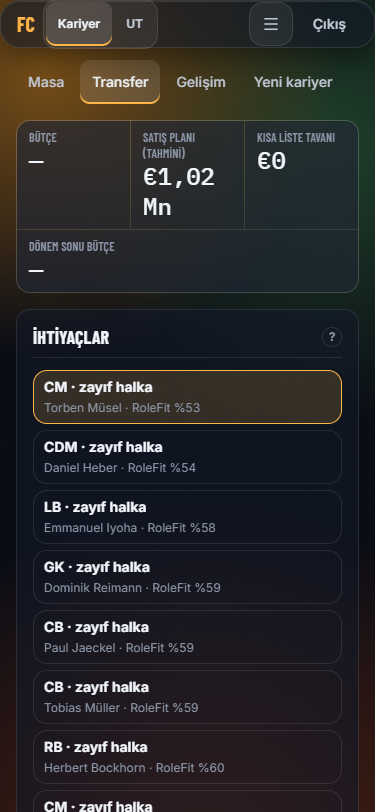
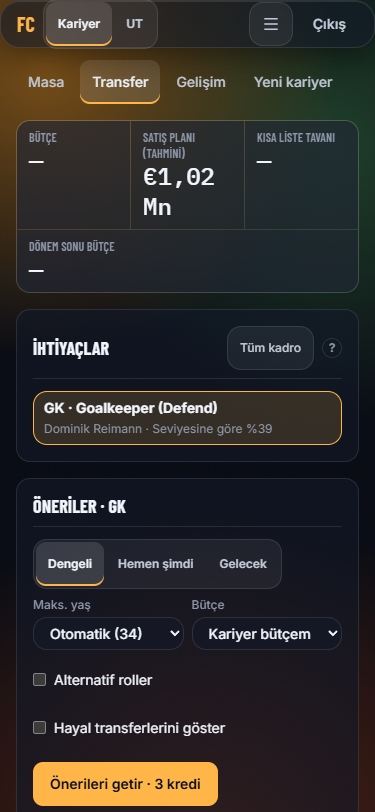
E3-10b: kariyer fit çağrıları v3, otomatik dizilim, perf ve filtre raporları, ekranlar
BEHAVIOR CHANGE: kariyer ekranlarındaki /fit/role çağrıları engineVersion v3 gönderir (saha rozeti artık İhtiyaçlar ile aynı sayı).

diff --git a/src/pages/CareerTransferPage.tsx b/src/pages/CareerTransferPage.tsx
@@ -1,6 +1,6 @@
 import { useMutation, useQuery, useQueryClient } from '@tanstack/react-query'
 import { Star } from 'lucide-react'
-import { useMemo, useState } from 'react'
+import { useEffect, useMemo, useRef, useState } from 'react'
 import { Link, useSearchParams } from 'react-router-dom'
 import { endpoints } from '../api/endpoints'
 import type { CareerRecommendationItem } from '../api/types'
@@ -41,6 +41,15 @@ export function CareerTransferPage() {
   const ws = useSquadWorkspace('career', binding)
   const { rows: fitRows, pending: fitsPending } = useSlotFits(ws, playerById)
   const [allSquad, setAllSquad] = useState(false)
+  // Dizilim henüz kurulmamışsa (Kadro kurucu açılmadıysa) sahadaki ile aynı otomatik dizilimle doldurulur.
+  const autoFilled = useRef('')
+  useEffect(() => {
+    const key = `${id}|${ws.formation?.id}`
+    if (id !== undefined && ws.formation && !ws.stale && (squad.data?.length ?? 0) >= 11 && Object.keys(ws.state.assigned).length === 0 && autoFilled.current !== key) {
+      autoFilled.current = key
+      endpoints.lineup(id, ws.tactic).then((result) => ws.patch({ assigned: Object.fromEntries(result.slots.flatMap((s) => (s.playerId !== undefined ? [[s.slotId, s.playerId]] : []))) })).catch(() => undefined)
+    }
+  }, [id, ws, squad.data])
   const shortlist = useQuery({ queryKey: ['shortlist', id], queryFn: () => endpoints.shortlist(id!), enabled: id !== undefined, retry: false })
   const tagList = useQuery({ queryKey: ['tags', id], queryFn: () => endpoints.playerTags(id!), enabled: id !== undefined, retry: false })
   const [selected, setSelected] = useState<string>()

diff --git a/src/features/squad/useSlotFits.ts b/src/features/squad/useSlotFits.ts
@@ -27,8 +27,8 @@ export function useSlotFits(ws: SquadWorkspaceApi<number>, playerById: Map<numbe
   const tagsOf = (slotId: string) => state.tags[slotId] ?? []
   const queries = useQueries({
     queries: filled.map((s) => ({
-      queryKey: ['slot-fit', state.assigned[s.slotId], roleOf(s.slotId, s.defaultRole), s.position, tagsOf(s.slotId).join(',')],
-      queryFn: () => endpoints.fitRole({ playerId: state.assigned[s.slotId], roleId: roleOf(s.slotId, s.defaultRole), position: s.position, tags: tagsOf(s.slotId) }),
+      queryKey: ['slot-fit', 'v3', state.assigned[s.slotId], roleOf(s.slotId, s.defaultRole), s.position, tagsOf(s.slotId).join(',')],
+      queryFn: () => endpoints.fitRole({ playerId: state.assigned[s.slotId], roleId: roleOf(s.slotId, s.defaultRole), position: s.position, tags: tagsOf(s.slotId), engineVersion: 'v3' }),
       staleTime: 300_000,
       retry: false,
     })),

diff --git a/src/api/endpoints.ts b/src/api/endpoints.ts
@@ -158,7 +158,7 @@ export const endpoints = {
   presets: (kind?: string) => api.get<Preset[]>('/presets', { kind }),
   resolveTactic: (tactic: TacticRequest) => api.post<ResolvedTactic>('/tactics/resolve', tactic, false),
 
-  fitRole: (body: { playerId: number; roleId: string; position?: string; tags?: string[] }) =>
+  fitRole: (body: { playerId: number; roleId: string; position?: string; tags?: string[]; engineVersion?: 'v1' | 'v3' }) =>
     api.post<FitRoleResult>('/fit/role', body, false),
   compare: (body: { ids: number[]; roleId: string; position?: string; tags?: string[] }) =>
     api.post<FitRoleResult[]>('/players/compare', body, false),

diff --git a/src/features/squad/pick/CareerPickList.tsx b/src/features/squad/pick/CareerPickList.tsx
@@ -33,8 +33,8 @@ export function CareerPickList({ position, roleId, tags, candidates, currentPlay
   const scored = filtered.slice(0, MAX_FIT_QUERIES)
   const fits = useQueries({
     queries: scored.map((c) => ({
-      queryKey: ['slot-fit', c.player.id, roleId, position, tags.join(',')],
-      queryFn: () => endpoints.fitRole({ playerId: c.player.id, roleId, position, tags }),
+      queryKey: ['slot-fit', 'v3', c.player.id, roleId, position, tags.join(',')],
+      queryFn: () => endpoints.fitRole({ playerId: c.player.id, roleId, position, tags, engineVersion: 'v3' }),
       staleTime: 300_000,
       retry: false,
     })),

diff --git a/src/pages/CareerTransferPage.test.tsx b/src/pages/CareerTransferPage.test.tsx
@@ -64,6 +64,7 @@ describe('CareerTransferPage', () => {
     const order = screen.getAllByRole('button').map((b) => b.textContent ?? '').filter((t) => t.includes('Seviyesine göre'))
     expect(order[0]).toContain('%12')
     expect(order[1]).toContain('%38')
+    expect(vi.mocked(endpoints.fitRole).mock.calls.every(([b]) => b.engineVersion === 'v3')).toBe(true)
     fireEvent.click(screen.getByRole('button', { name: 'Tüm kadro' }))
     expect(await screen.findByText(/Oyuncu 3 · Seviyesine göre %80/)).toBeInTheDocument()
   })

diff --git a/docs/review/v2/V3-04_progress.md b/docs/review/v2/V3-04_progress.md
@@ -69,3 +69,4 @@ Durum: yapıldı / kısmen / bekliyor. Hash'ler web `v3` dalı; "BE" = backend `
 - **E3-6c yapıldı**: HAYAL ana listede yok (`includeLongShots=true` → ayrı `longShots` ≤3); rakip kulübün ilk 11 oyuncusu (kulüp farkı ≥ −2, kulüp içi sıra ≤ 11) en az ZOR; OVR farkı ≥ +8 HAYAL, +5…+8 en az ZOR (serbest dahil; eşikler config, verified:false); madde 4 (baskınlık) E3-6b-5'te yapılmıştı (`E3-6b_baskinlik.md`); rapora 3 artı + 2 eksi sütunları döndü: `E3-6c_oneriler.md` (4 takım, HAYAL 0). Testler: FeasibilityBucketsTest (+2), CareerRecommenderIntegrationTest (+1). API CONTRACT CHANGE: istek `includeLongShots`, yanıt `longShots`.
 - **E3-10 ilerleme 1 (web bağlantısı, ekran onayı bekliyor)**: backend: eski öneri uçları (`/recommend/slot-view`, `/recommend/slot`, `/recommend/transfer-targets`, `/scouting/{id}/search`) `Deprecation: true` + `Link: …successor-version` başlığı taşır (bir sürüm yaşar), `GET /billing/costs`, istekte `budgetEur`/`budgetUnknown`. Web: `features/recommend/` (RecommendationRow = PickList ailesi kart satırı; RecommendationPanel = filtreler + kredi onayı), slot panelinin "Öneriler" sekmesi ve Transfer Merkezi yeni uca bağlı; `SlotSuggestions`, `TransferTargets`, `RecommendPage`, `ScoutingPage` silindi, `/recommend` ve `/scouting` → `/career/transfer` yönlendirmesi; web'de eski uç adı yok (`noLegacyRecommend.test.ts`). Kredi: düğme "Önerileri getir · N kredi" (PREMIUM'da "PREMIUM'da ücretsiz"), ücretsizde onay adımı (oturumluk "tekrar sorma"). Testler: web 471 yeşil, lint 0 hata, build. Sıradaki: ekran kapıları (Q3, Q4 axe, Q5, Q16, Q17, Q18) + ekran görüntüleri.
 - **E3-10 yapıldı (ekran onayı bekliyor)**: ekran kapıları `scripts/e3-10-shots.mjs`: 16 görüntü (slot paneli boş/onay/sonuç + Transfer Merkezi × 375/1280 × koyu/açık), taşma yok, axe serious/critical 0 (Q3, Q4, Q5), konsol/ağ hatası 0; Q17 kariyer (4-3-3, 3-5-2, 6 boyut) sorunsuz; Q16 çekirdek paylaşımı korundu (q16.test.ts yeşil). Ekranlar `screens/E3-10/`. **Bulgu (gerçek hata, düzeltildi)**: canlı havuz filtresi korelasyonlu `NOT EXISTS` idi; 22 bin satırlık katalog kariyerinde ilk öneri 55 sn sürdü (Crewe/Port Vale'de canlı satır olduğu için görünmemişti). Korelasyonsuz alt sorguya çevrildi (`CareerSearchProfile`, `ClubStrength` sorgusu) + koruma testi. Web 471 test, backend 418 test yeşil.
+- **E3-10b yapıldı (ekran onayı bekliyor)**: (1) İhtiyaçlar yeni motora: sahadaki rozetle AYNI sorgu (`useSlotFits`, `/fit/role` + `engineVersion:'v3'`), yalnız sarı/kırmızı (sunucu fitLabel), seviyesine göre artan, rol adı + rozet, "Tüm kadro" seçeneği; test: aynı oyuncunun sahadaki ve İhtiyaçlar'daki değeri aynı. **Kök neden**: kariyer sahası `/fit/role`'u global `engine-version` (v1) ile çağırıyordu, İhtiyaçlar `/fit/lineup` (kariyer motoru v3) kullanıyordu → iki sayı; kariyer çağrıları artık `engineVersion:'v3'` gönderir; Transfer Merkezi dizilim boşsa Kadro kurucuyla aynı otomatik dizilimi kurar. (2) `lib/fitLabels.ts` tek sözlük + tooltip (saha rozeti yüzdesi artık seviyesine göre %; rol puanı ayrı). (3) bütçe kutuları değer yoksa "—". (4) `E3-10b_oyuncular_filtreleri.md` (eksikler V3-06'ya). (5) `E3-10b_performans.md`: p95 262 ms (Crewe) / 289 ms (kayıt dosyası olmayan), hedef ≤2 sn karşılandı. (6) ekranlar yeniden çekildi (slot sonuç + Transfer, 375/1280 koyu; axe 0). **Açık nokta**: Menajer Masası (`CareerDeskPage`) hâlâ eski `RoleFit` skorunu (lineup) gösteriyor — kapsam listesinde yoktu, ayrı iş.

diff --git a/docs/review/v2/E3-10b_oyuncular_filtreleri.md b/docs/review/v2/E3-10b_oyuncular_filtreleri.md
@@ -1,0 +1,22 @@
+# E3-10b — Oyuncular sayfası, eski Scouting filtrelerini karşılıyor mu? (kariyer modu)
+
+Eski Scouting filtreleri (silinen `ScoutingPage`) ↔ `PlayersPage` (kariyer modunda `career` parametresiyle kayıt dosyası havuzu):
+
+| Eski Scouting | Oyuncular sayfası | Durum |
+|---|---|---|
+| Mevki | Mevki | var |
+| En fazla yaş | Maks. yaş (+ Min. yaş) | var |
+| Min / Maks potansiyel | Min. / Maks. POT* | var |
+| Min / Maks genel | Min. / Maks. genel | var |
+| Lig | Lig | var |
+| Kulüp | Takım (kariyer takım araması) | var |
+| Serbest oyuncu | Serbest (free_agent) | var |
+| **Değer (€) aralığı** | yok | **EKSİK** (backend `valueMax` destekliyor; web filtresi yok) |
+| **Bütçeme sığar / edinilebilir** | yok | **EKSİK** (öneri hattında var, arama sayfasında yok) |
+| **Sözleşme bitişi (≤ 6 ay)** | yok | **EKSİK** (veri `contract_until` yeni geldi; export gelince anlamlı) |
+| **Kiralık / kiralanabilir** | yok | **EKSİK** |
+| Sıralama: "en uygun oyun tarzı" / "fırsat" | yok (yalnız sütun sıralaması) | **EKSİK** — rol uyumuna göre sıralama artık Öneriler'de (rol/slot odaklı); serbest arama için gerekirse V3-06 |
+| Tahmini bedel / değer sütunu | yok | **EKSİK** (liste sütunlarında değer yok) |
+| Kullanıcı kulübüne göre "ulaşılabilirlik" (kova) | yok | **EKSİK** (yalnız Öneriler'de) |
+
+Bunlar ekleme olarak **V3-06**'ya bırakıldı (bu adımda eklenmedi).

diff --git a/docs/review/v2/E3-10b_performans.md b/docs/review/v2/E3-10b_performans.md
@@ -1,0 +1,13 @@
+# E3-10b — Öneri hattı süresi (canlı havuz düzeltmesinden sonra)
+
+Ölçüm: `CareerRecommender.compute` hat içi süresi (HTTP ve kredi işlemi hariç), varsayılan istek (BALANCED, ilk 10), yerel Docker, 4 mevki × (1 soğuk + 2 ısınma + 20 ölçüm). Araç: `fcareer.report.recommendations.timing=true` (rapor çalıştırıcısı).
+
+| Kariyer | Soğuk (ilk çağrı) | p50 | p95 | en yavaş |
+|---|---|---|---|---|
+| Crewe (id 4, kayıt dosyası var) | 213–1.188 ms | 206 ms | **262 ms** | 273 ms |
+| Kayıt dosyası olmayan (katalog, 22 bin satır, geçici hesap) | 233–1.416 ms | 239 ms | **289 ms** | 367 ms |
+
+Hedef ≤ 2 sn: **karşılandı** (sıcak p95 < 0,4 sn; soğuk ilk çağrı ≤ 1,5 sn, kulüp gücü hesabı dahil).
+
+Düzeltmeden önce: aynı katalog kariyerinde ilk öneri **55 sn** (korelasyonlu `NOT EXISTS`; bkz. V3-04 progress E3-10). Geçici ölçüm hesabı silindi.
+Not: ölçüm tek kullanıcı, tek istek; eşzamanlı yük altında ölçülmedi.
